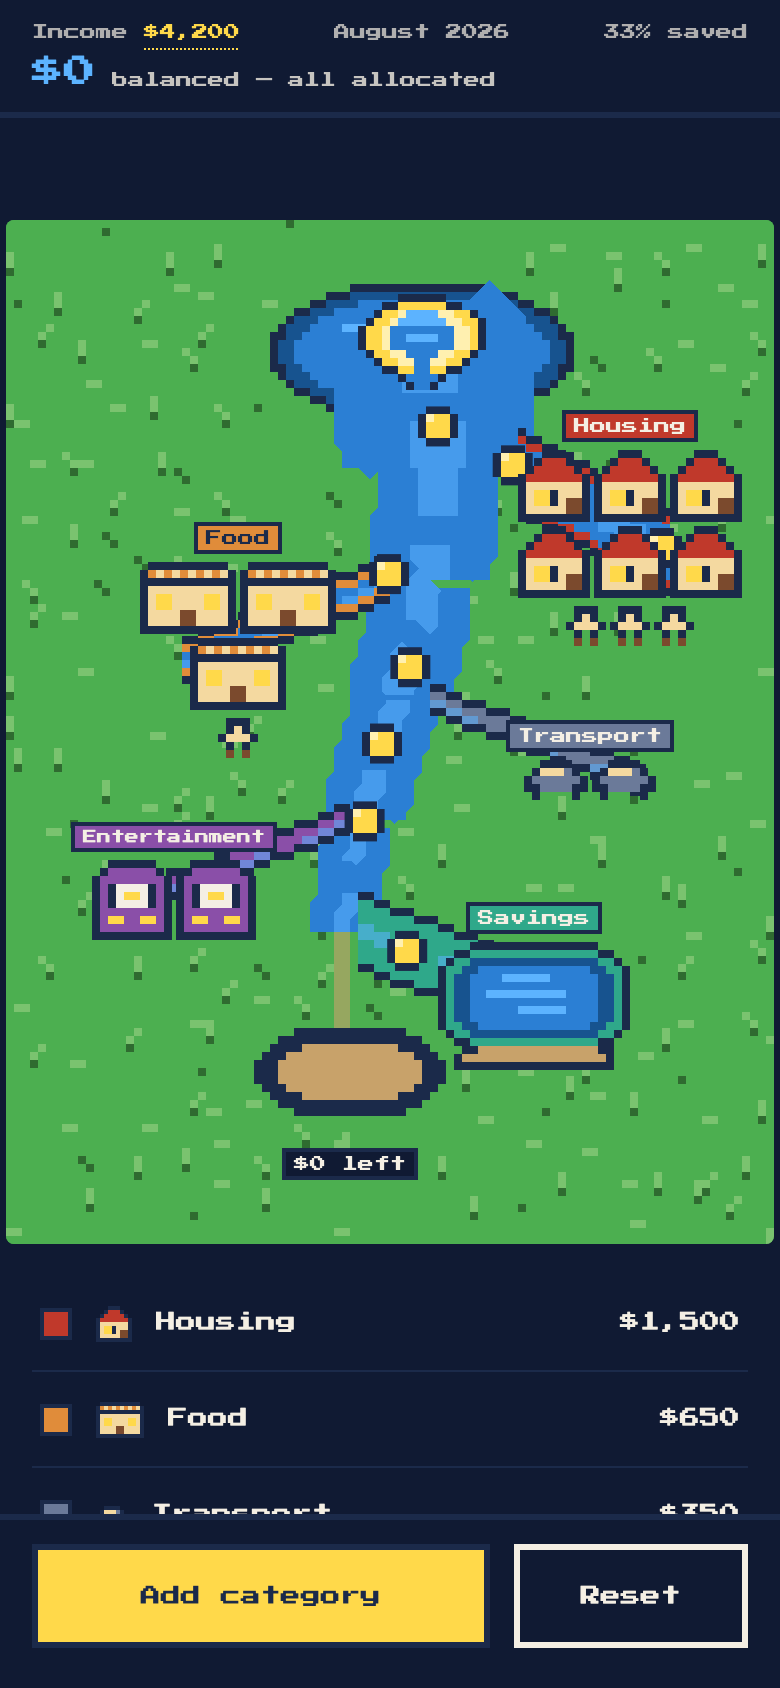
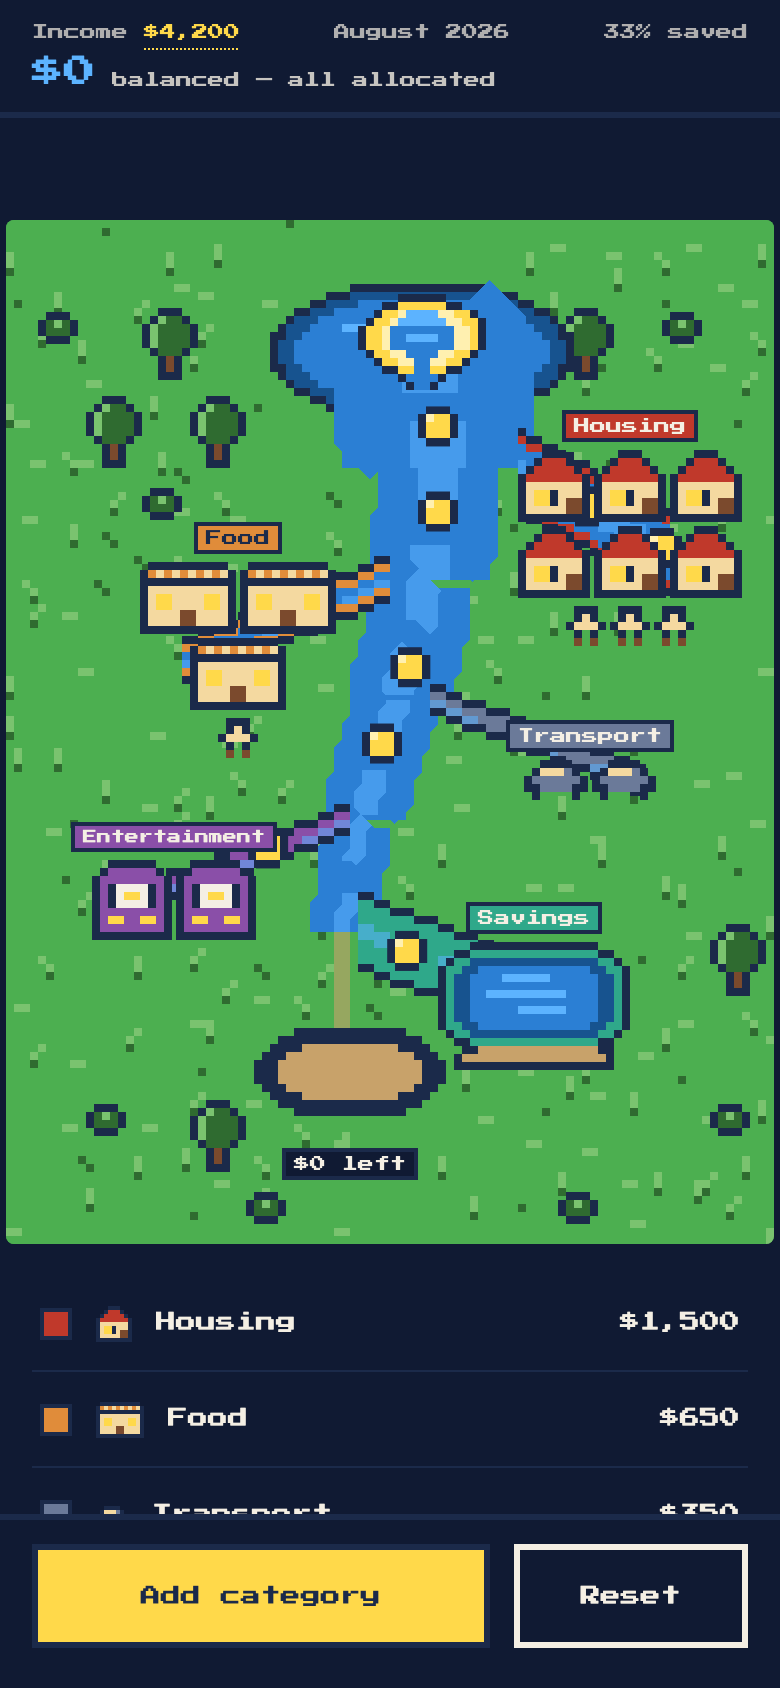
feat(scripts): capture_stills.py — and the stills now show the trees
Two things, and the second is why the first exists.

## docs/screenshots/README.md claimed a script that was not in the repo

It said "the capture script asserts the stamped hash before its first frame".
The capture logic lived in a scratch file and was never committed, so the
document I had just rewritten to be rigorous about claims was asserting a
safeguard nobody could run. Fixed by making the claim true rather than by
deleting it.

  scripts/capture_stills.py <url> [--expect <bundle>]

  URL required, no default        a default is a hardcoded target wearing an
                                  argument's clothes -- walk_demo.py had one and
                                  it produced two wrong answers
  bundle read before AND after    a deploy landing mid-run discards the set
                                  instead of committing one silently mixed
                                  across two builds
  prints the stamp                the provenance block to paste, not a claim
                                  that the stills are current

## And -live deployed while I was writing that

  06:09:14   -live deploys 8cb5322
  live now   index-DHlJcBWS.js, byte-name-identical to a clean build of main
  contains   the canopy literal `kheeeek` and the bush literal `kehek`

The per-project cap cleared and the host shipped current main unattended,
exactly as ruled. So the submitted URL now carries the foliage, the opening
[…]

diff --git a/scripts/capture_stills.py b/scripts/capture_stills.py
@@ -1,0 +1,111 @@
+#!/usr/bin/env python3
+"""
+Re-capture the demo's contingency stills from a deployed URL.
+
+    python3 scripts/capture_stills.py https://cursor-squad-august-live.vercel.app
+    python3 scripts/capture_stills.py https://<host> --expect index-BO7g_gsl.js
+
+The URL is a required argument and there is no default. A default is a
+hardcoded target wearing an argument's clothes: `walk_demo.py` had one, it
+judged whatever was listening on a well-known port, and it produced two wrong
+answers before it was removed.
+
+Every frame in a set comes from one bundle. The bundle name is read once,
+printed, and re-checked after the last frame -- so a deploy landing mid-run
+aborts instead of committing a set silently mixed across two builds. That is
+the failure this script exists to prevent: the stills went stale three times,
+and the third time the images were right and the host had moved underneath
+them.
+
+Prints the provenance stamp to paste into docs/screenshots/README.md. The
+stamp is a historical fact; nothing here claims the stills are current.
+"""
+import argparse
+import re
+import sys
+import urllib.request
+
+OUT = "docs/screenshots"
+SHOTS = ["01-empty-field", "02-seeded-balanced", "03-category-sheet", "04-overspent"]
+BUNDLE = re.compile(r"assets/index-[A-Za-z0-9_-]+\.js")
+
+
+def bundle_of(url: str) -> str:
+    with urllib.request.urlopen(url, timeout=15) as r:
+        html = r.read().decode("utf-8", "replace")
+    found = BUNDLE.search(html)
+    if not found:
+        sys.exit(f"no bundle reference found at {url} -- nothing was measured")
+    return found.group(0).split("/")[-1]
+
+
+def main() -> int:
+    ap = argparse.ArgumentParser()
+    ap.add_argument("url", help="the deployed URL to capture from")
+    ap.add_argument("--expect", help="bundle filename this run must find, e.g. index-BO7g_gsl.js")
+    args = ap.parse_args()
+    url = args.url.rstrip("/")
+
+    before = bundle_of(url)
+    print(f"capturing from {url}")
+    print(f"serving        {before}")
+    if args.expect and before != args.expect:
+        sys.exit(f"FAIL expected {args.expect}, found {before} -- the host moved")
+
+    from playwright.sync_api import sync_playwright
+
+    with sync_playwright() as p:
+        b = p.chromium.launch(headless=True)
+        ctx = b.new_context(
+            viewport={"width": 390, "height": 844},
+            device_scale_factor=2,
+            is_mobile=True,
+            has_touch=True,
+            reduced_motion="reduce",
+        )
+        pg = ctx.new_page()
+        errs: list[str] = []
+        pg.on("pageerror", lambda e: errs.append(str(e)))
+        pg.on("console", lambda m: errs.append(m.text) if m.type == "error" else None)
+        pg.on("dialog", lambda d: d.accept())
+
+        pg.goto(url, wait_until="networkidle")
+        pg.wait_for_timeout(1100)
+        pg.screenshot(path=f"{OUT}/{SHOTS[0]}.png")
+
+        pg.get_by_role("button", name="Load demo budget").click()
+        pg.wait_for_timeout(1600)
+        pg.screenshot(path=f"{OUT}/{SHOTS[1]}.png")
+
+        pg.get_by_role("button", name="Food").first.click()
+        pg.wait_for_timeout(900)
+        pg.screenshot(path=f"{OUT}/{SHOTS[2]}.png")
+
+        plus = [x for x in pg.locator("button").all() if x.inner_text().strip() == "+"][0]
+        for _ in range(8):
+            plus.click()
+            pg.wait_for_timeout(170)
+        pg.wait_for_timeout(1200)
+        pg.screenshot(path=f"{OUT}/{SHOTS[3]}.png")
+
+        ctx.close()
+        b.close()
+
+    after = bundle_of(url)
+    if after != before:
+        sys.exit(f"FAIL the host deployed mid-run: {before} -> {after}. Set discarded, re-run.")
+    if errs:
+        sys.exit(f"FAIL page errors during capture: {errs[:3]}")
+
+    from datetime import date
+
+    print("\npaste into docs/screenshots/README.md:\n")
+    print(f"    captured from   {url}")
+    print(f"    serving         assets/{before}")
+    print(f"    on              {date.today().isoformat()}")
+    print("    how             headless Chromium, 390 x 844, deviceScaleFactor 2, touch on")
+    return 0
+
+
+if __name__ == "__main__":
+    raise SystemExit(main())

diff --git a/docs/screenshots/README.md b/docs/screenshots/README.md
@@ -3,7 +3,7 @@
 ## Provenance — a stamp, not a currency claim
 
     captured from   https://cursor-squad-august-live.vercel.app
-    serving         assets/index-BO7g_gsl.js  ==  863822d
+    serving         assets/index-DHlJcBWS.js  ==  8cb5322
     on              2026-08-27
     how             headless Chromium, 390 x 844, deviceScaleFactor 2, touch on
 
@@ -26,8 +26,10 @@ If that hash is not the one stamped above, the stills predate the live build.
 rely on them — before a demo, before a submission — and re-stamp. Nobody
 re-captures on a schedule, and nobody writes "these are current" instead.
 
-The capture script asserts the stamped hash before its first frame and aborts
-otherwise, so a set can never be *silently* mixed across two builds.
+`scripts/capture_stills.py <url>` produces a set and prints the stamp above. It
+reads the bundle name before the first frame and again after the last, and
+discards the set if they differ — so a deploy landing mid-run can never leave a
+set silently mixed across two builds. The URL is required; there is no default.
 
 ## What went wrong three times, because none of it expires
 
